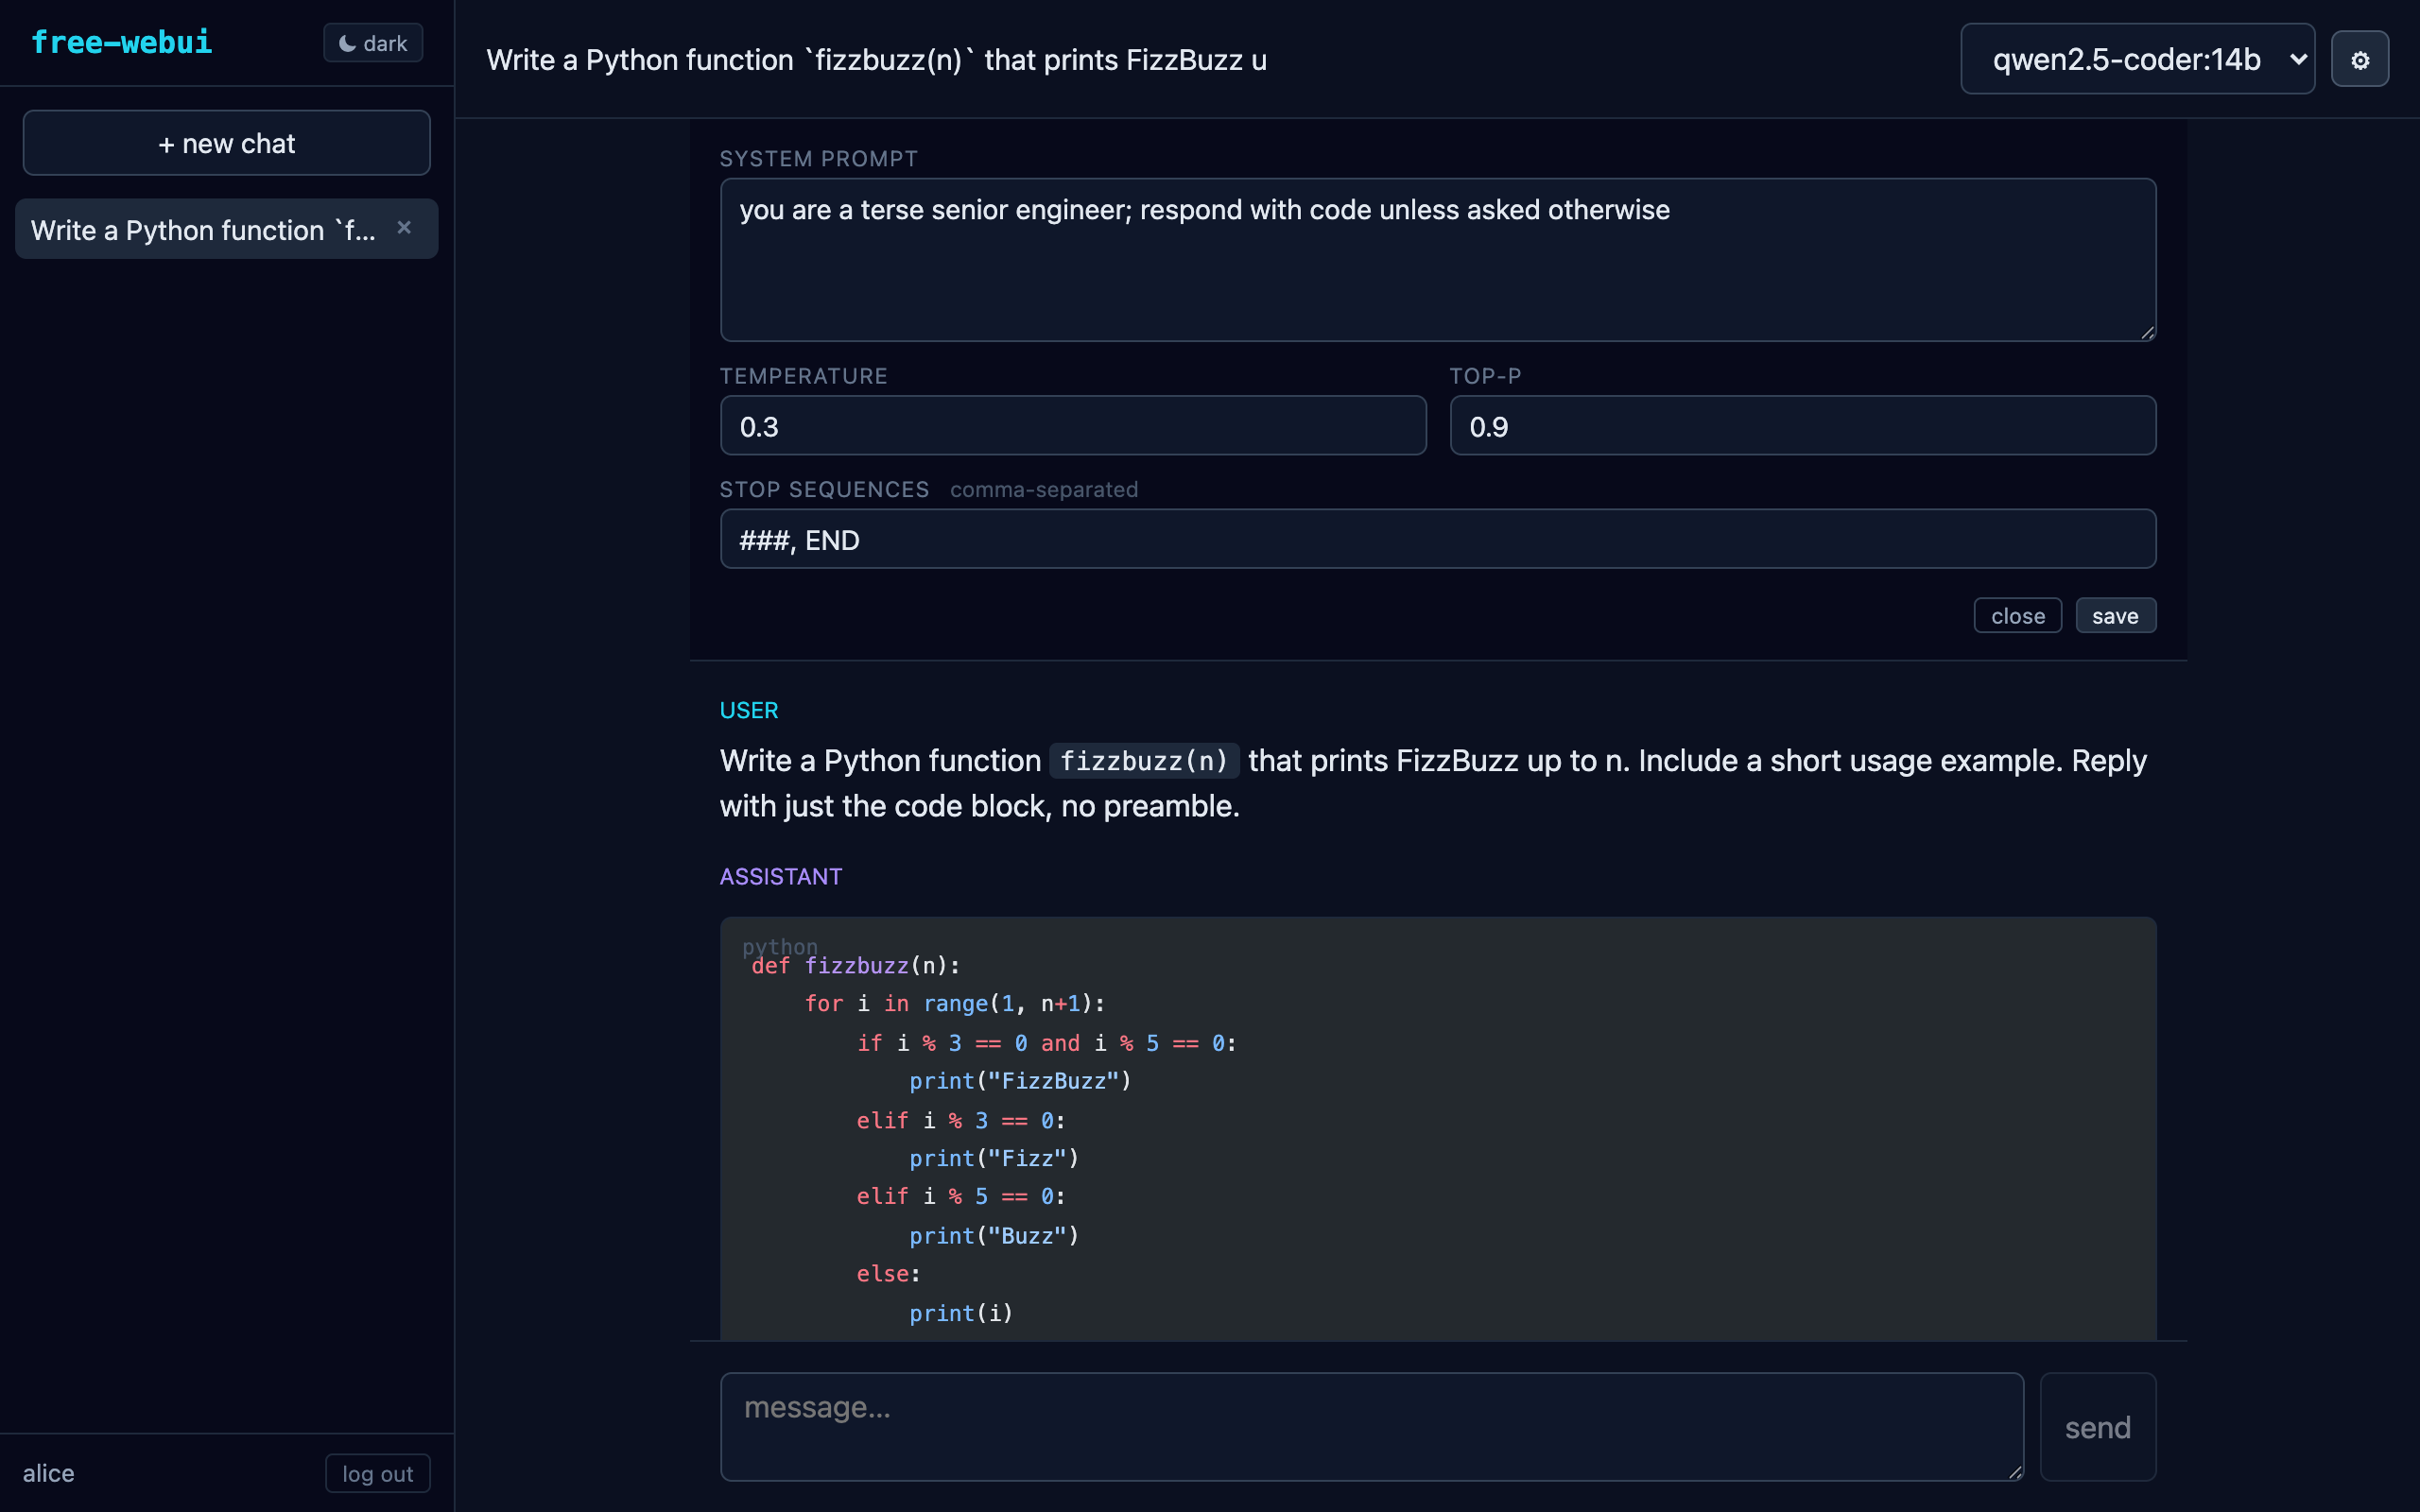
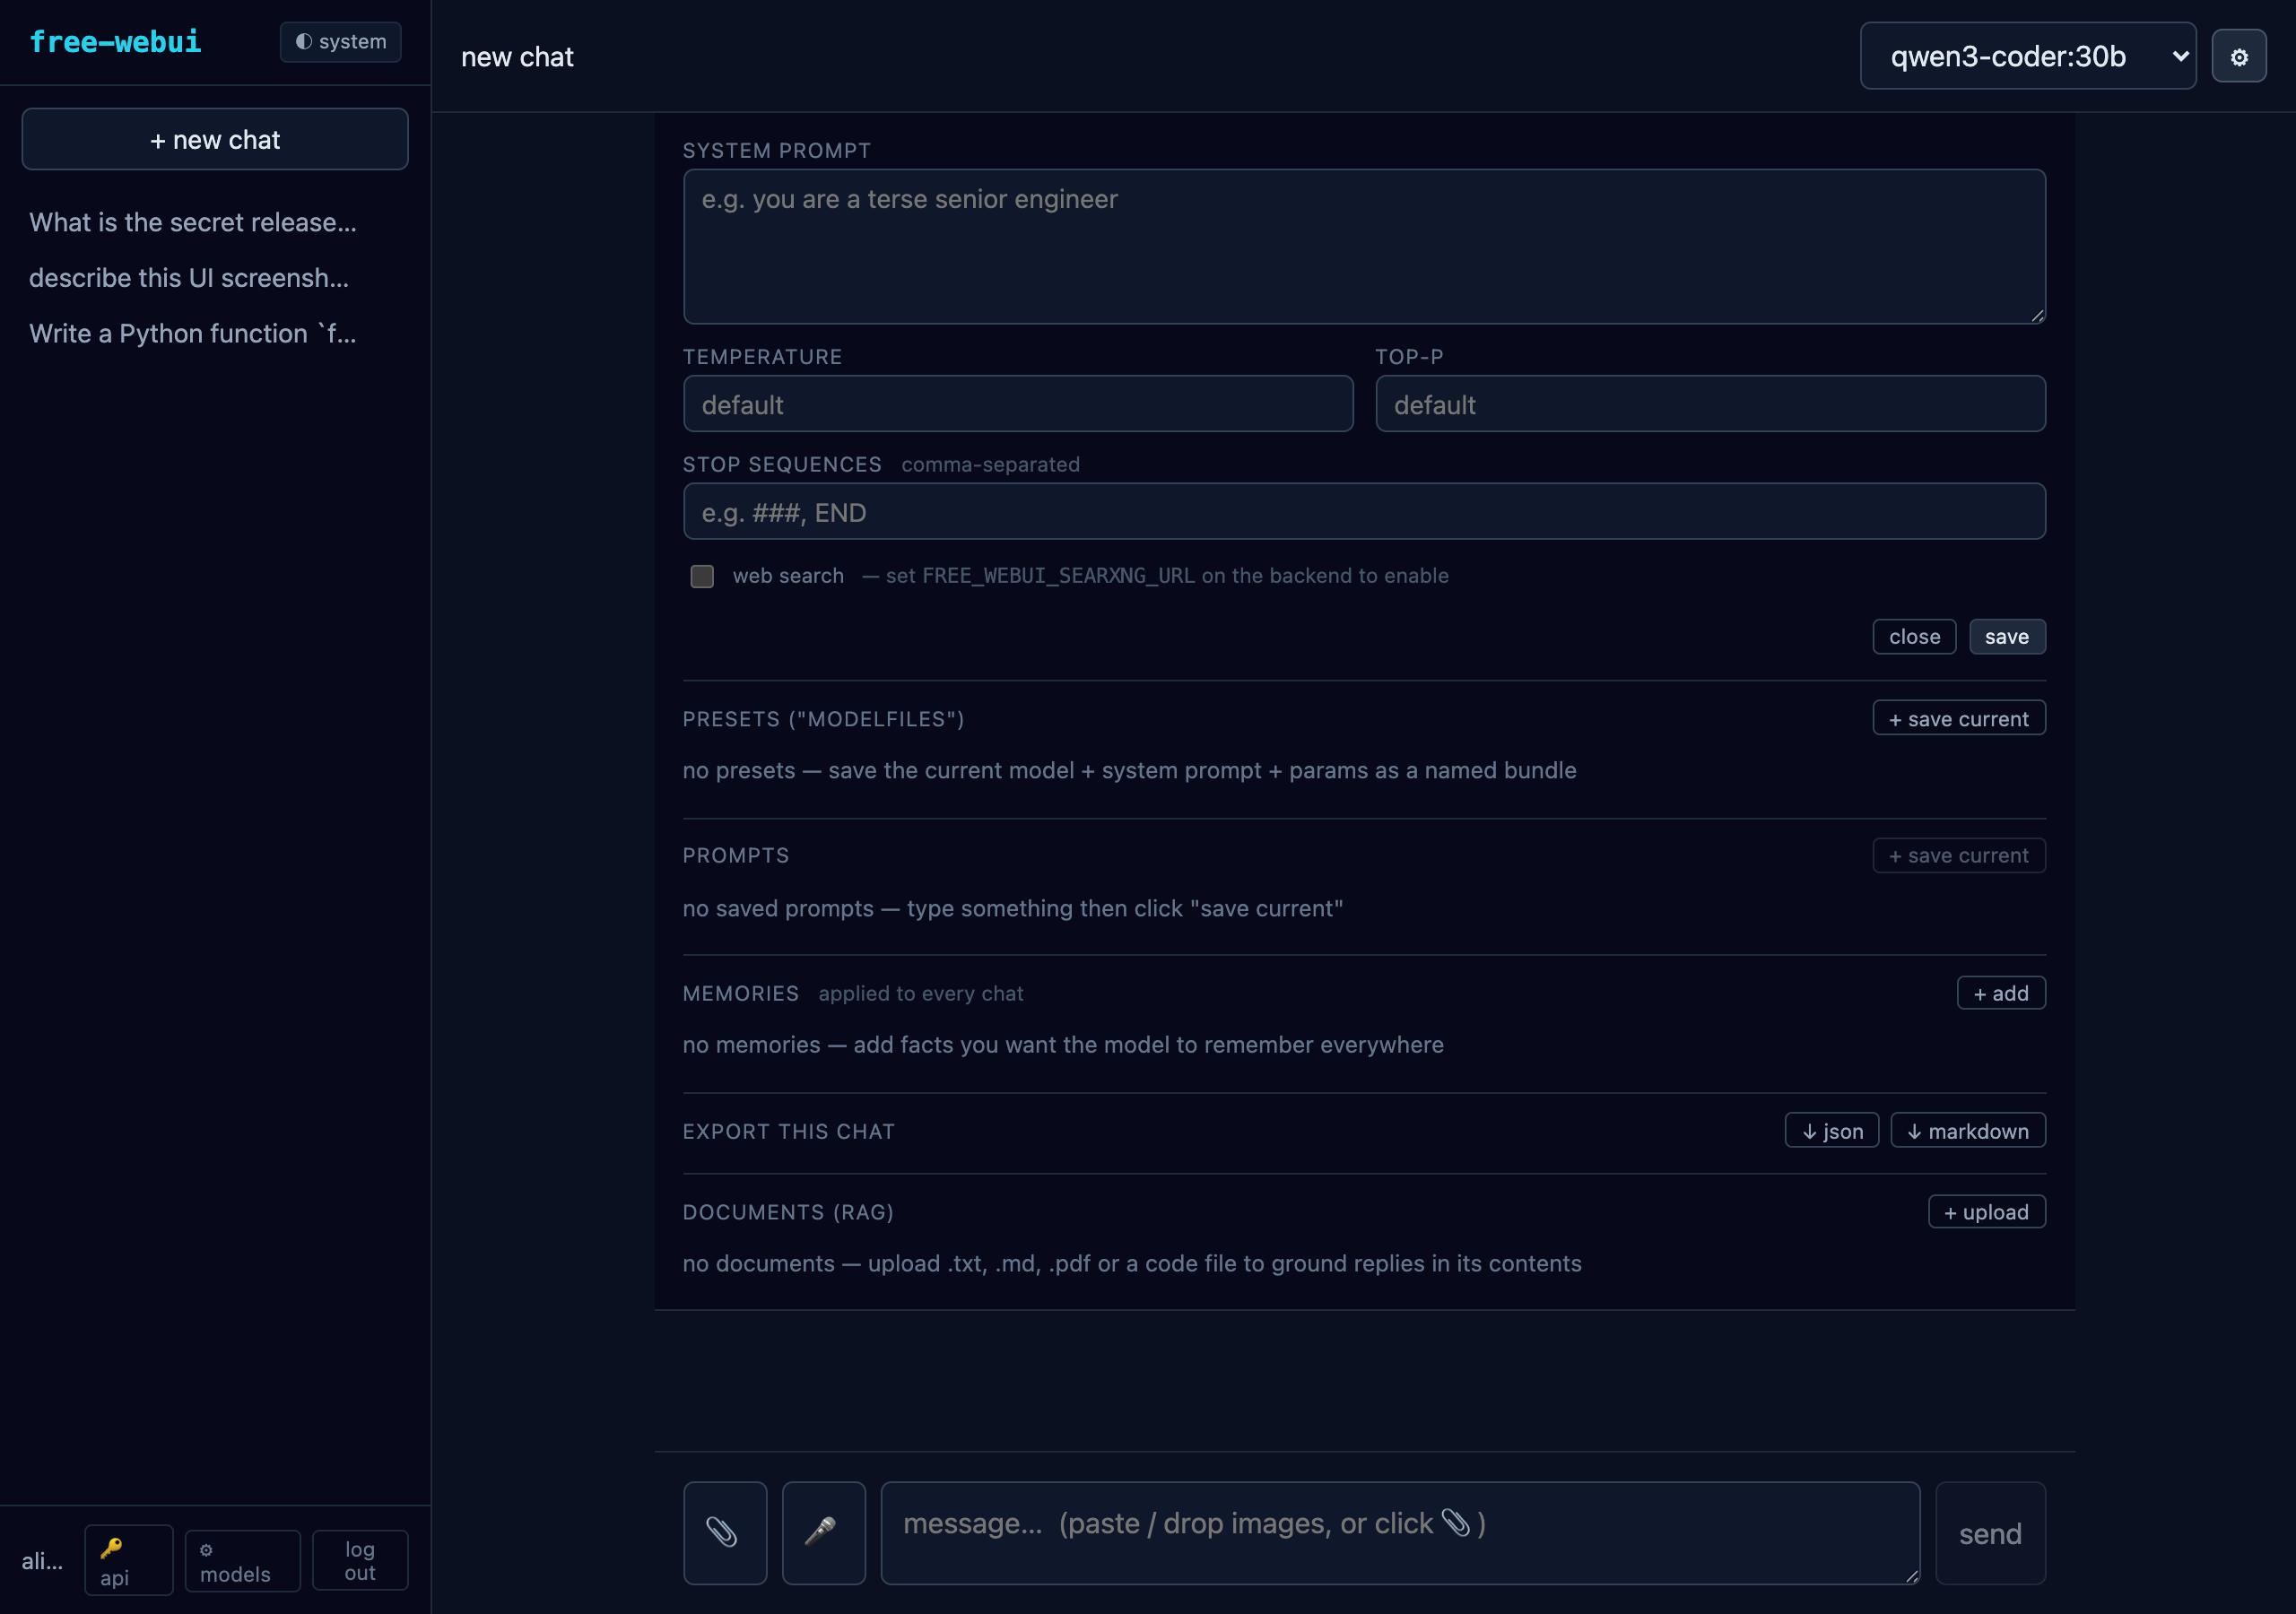
README: refresh screenshots showing every Tier-2 surface
- screenshot-settings.png now shows the full drawer: system prompt
  / temperature / top-p / stop / web-search toggle, presets,
  prompts, memories, export buttons, and the RAG documents section.
- New screenshot-account.png: API keys page with mint form, keys
  table, and a curl example.
- New screenshot-admin-models.png: installed-models page with the
  pull form and the locally installed qwen models.
- Both new shots wired into the README screenshot section.

diff --git a/README.md b/README.md
@@ -50,6 +50,13 @@ If `open-webui` is the kitchen-sink reference, `free-webui` aims to be the lean,
 
 <p align="center"><sub>RAG: upload docs in the settings drawer; the 📎 badge shows when RAG is active. Here the model correctly cites a fact from <code>product_notes.md</code> that never appeared in the visible message history.</sub></p>
 
+<p align="center">
+  <img src="./docs/img/screenshot-account.png" alt="account / api keys page" width="49%"/>
+  <img src="./docs/img/screenshot-admin-models.png" alt="admin-only installed-models page" width="49%"/>
+</p>
+
+<p align="center"><sub>per-user API keys (Bearer auth for the OpenAI-compatible <code>/v1/*</code> surface) · admin-only Ollama model list with streaming pull / delete</sub></p>
+
 ---
 
 ## Status